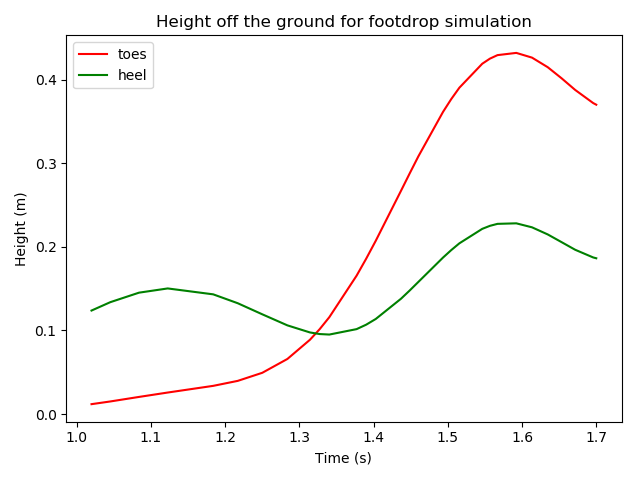
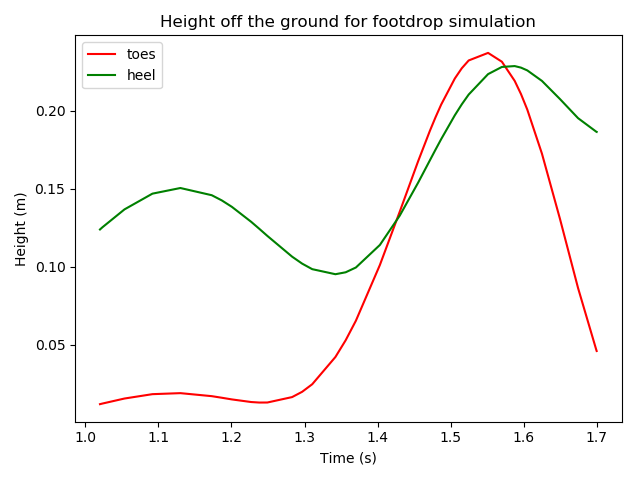
Got foot drop working! and updated results

diff --git a/gait_simulate.py b/gait_simulate.py
@@ -157,10 +157,11 @@ class GaitSimulator:
         vm_soleus = get_velocity_single_val(activation_soleus, l_ce_norm_soleus, l_tendon_norm_soleus)
         vm_tibialis = get_velocity_single_val(activation_tibialis, l_ce_norm_tibialis, l_tendon_norm_tibialis)
 
+
         # derivative of state: 
         xd = [0, 0, 0, 0]
         xd[0] = d_beta
-        xd[1] = (torque_tibant - torque_soleus - gravity_moment_ankle(beta, theta, H)) / I_ANKLE 
+        xd[1] = -(torque_tibant - torque_soleus - gravity_moment_ankle(beta, theta, H)) / 0.5
         xd[2] = vm_soleus
         xd[3] = vm_tibialis
         return xd
@@ -240,8 +241,13 @@ class GaitSimulator:
 
         print("\nFinding outputs...")
         for t, b, d_b, th, ls, lt in zip(time, beta, d_beta, theta, soleus_norm_length_muscle, tibialis_norm_length_muscle):
-            soleus_moment.append(-MOMENT_ARM_SOLEUS * self.soleus.get_force_single_val(soleus_length(b), ls)*self.get_soleus_activation(t, b, d_b, th))
-            tibialis_moment.append(MOMENT_ARM_TIBIALIS * self.tibialis.get_force_single_val(tibialis_length(b), lt)*self.get_tibialis_activation(t, b, d_b, th))
+            l_tendon_norm_soleus = self.soleus.norm_tendon_length(soleus_length(b), ls)
+            l_tendon_norm_tibialis = self.tibialis.norm_tendon_length(tibialis_length(b), lt)
+            torque_soleus = force_length_tendon_single_val(l_tendon_norm_soleus) * F_MAX_SOLEUS * self.get_soleus_activation(t, b, d_b, th) * MOMENT_ARM_SOLEUS
+            torque_tibant = force_length_tendon_single_val(l_tendon_norm_tibialis) * F_MAX_TIBIALIS * self.get_tibialis_activation(t, b, d_b, th) * MOMENT_ARM_TIBIALIS
+            
+            soleus_moment.append(-torque_soleus)
+            tibialis_moment.append(torque_tibant)
             ankle_height.append(HIP_HEIGHT - np.cos(np.pi - r.hip_angle(t))*THIGH_LENGTH - SHANK_LENGTH*np.cos(abs(th)))
             toe_height.append(HIP_HEIGHT - np.cos(np.pi - r.hip_angle(t))*THIGH_LENGTH - SHANK_LENGTH*np.cos(abs(th)) + FOOT_LENGTH*np.sin(np.pi/2 - b + th)) 
             excit_soleus.append(self.get_soleus_excitation(t, b, d_b, th))
@@ -346,7 +352,7 @@ def gravity_moment_ankle(beta, theta, H):
     :return moment about ankle due to force of gravity on body
     """
     torso_moment = MASS_TORSO*GRAVITY*(THIGH_LENGTH*np.sin(np.pi - H) + SHANK_LENGTH*np.sin(theta))
-    foot_moment = MASS_FOOT*GRAVITY*D_COM_SHANK_ANKLE*np.sin(beta - theta - np.pi/2)
+    foot_moment = MASS_FOOT*GRAVITY*D_COM_SHANK_ANKLE*np.cos(beta - theta - np.pi/2)
     shank_moment = MASS_SHANK*GRAVITY*D_COM_SHANK_ANKLE*np.sin(theta)
     thigh_moment = MASS_THIGH*GRAVITY*(D_COM_THIGH_KNEE*np.sin(np.pi - H) + SHANK_LENGTH*np.sin(theta))
     # return -foot_moment + (shank_moment + thigh_moment + thigh_moment)

diff --git a/main.py b/main.py
@@ -1,5 +1,5 @@
 from gait_simulate import GaitSimulator 
 import muscle
 
-g = GaitSimulator(False)
+g = GaitSimulator(True)
 g.simulate()
